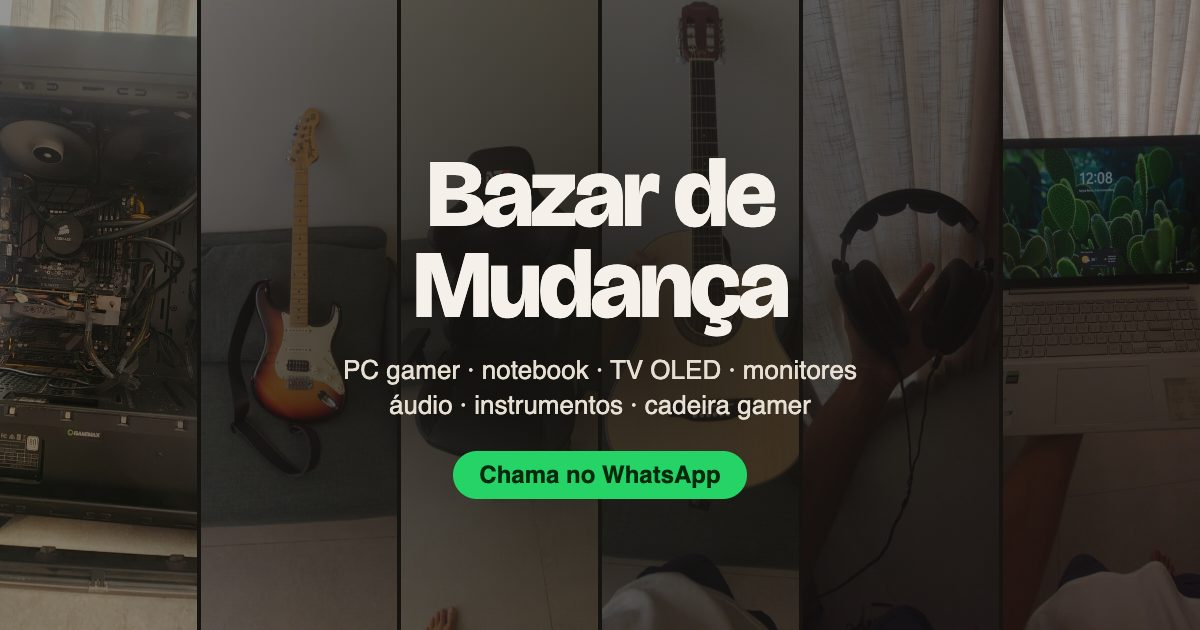
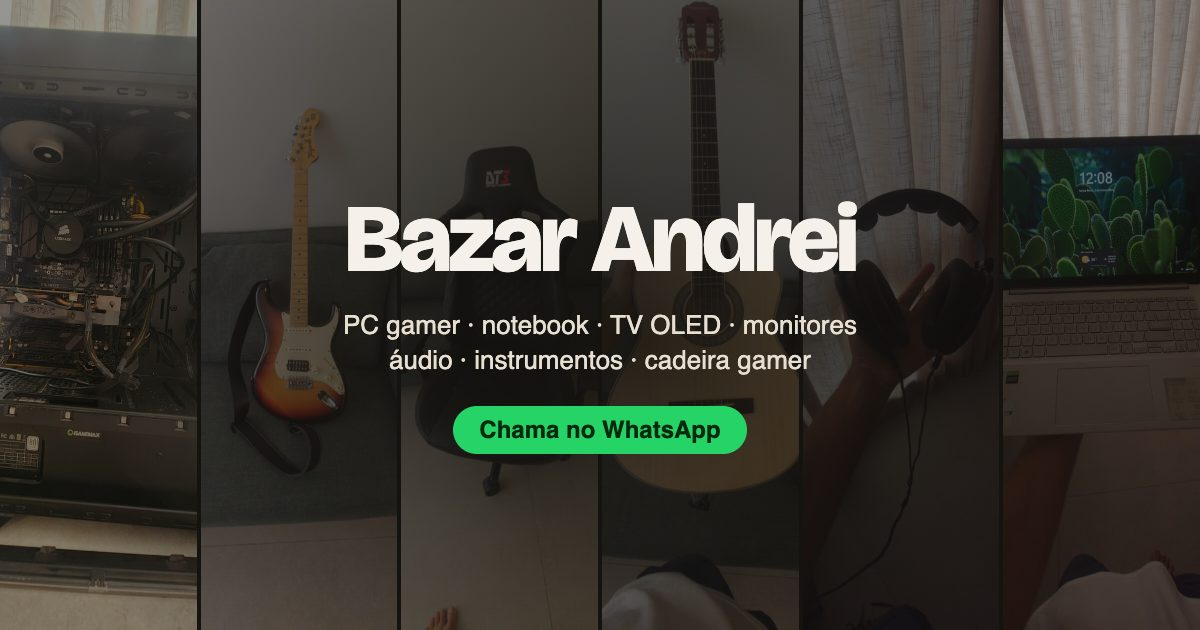
Rename to Bazar Andrei; drop the description line

Changed region(s): [[0.2775, 0.2413, 0.74, 0.6032], [0.3083, 0.6333, 0.6783, 0.8143]]

diff --git a/index.html b/index.html
@@ -3,17 +3,17 @@
 <head>
   <meta charset="utf-8">
   <meta name="viewport" content="width=device-width, initial-scale=1, viewport-fit=cover">
-  <title>Bazar de Mudança · PC gamer, notebook, TV OLED e mais</title>
-  <meta name="description" content="Estou vendendo esses itens porque vou me mudar: PC gamer, notebook, TV LG OLED, monitores, áudio, instrumentos e cadeira gamer. Fotos reais e preços: é só chamar no WhatsApp.">
+  <title>Bazar Andrei · PC gamer, notebook, TV OLED e mais</title>
+  <meta name="description" content="PC gamer, notebook, TV LG OLED, monitores, áudio, instrumentos e cadeira gamer. Fotos reais e preços: é só chamar no WhatsApp.">
   <meta name="theme-color" content="#f5f1ea" media="(prefers-color-scheme: light)">
   <meta name="theme-color" content="#141310" media="(prefers-color-scheme: dark)">
 
   <meta property="og:type" content="website">
   <meta property="og:locale" content="pt_BR">
-  <meta property="og:title" content="Bazar de Mudança">
+  <meta property="og:title" content="Bazar Andrei">
   <meta property="og:description" content="PC gamer, notebook, TV LG OLED, monitores, áudio, instrumentos e cadeira gamer. Fotos reais e preços: é só chamar no WhatsApp.">
   <meta property="og:url" content="https://andreixzc.github.io/bazar/">
-  <meta property="og:image" content="https://andreixzc.github.io/bazar/img/og.jpg?v=2">
+  <meta property="og:image" content="https://andreixzc.github.io/bazar/img/og.jpg?v=3">
   <meta property="og:image:width" content="1200">
   <meta property="og:image:height" content="630">
   <meta name="twitter:card" content="summary_large_image">
@@ -34,8 +34,7 @@
   </svg>
 
   <header class="hero wrap">
-    <h1>Bazar de Mudança</h1>
-    <p class="lead">Estou vendendo esses itens porque vou me mudar.</p>
+    <h1>Bazar Andrei</h1>
     <div class="hero-actions">
       <a class="btn btn-wa" id="cta" href="https://wa.me/5531988781887" target="_blank" rel="noopener"><svg aria-hidden="true"><use href="#i-wa"/></svg><span>Chamar no WhatsApp</span></a>
       <span class="stock" id="stock"></span>
@@ -50,7 +49,7 @@
   </main>
 
   <footer class="foot wrap">
-    <p><strong>Bazar de Mudança</strong> · fotos reais dos produtos · preços em reais</p>
+    <p><strong>Bazar Andrei</strong> · fotos reais dos produtos · preços em reais</p>
     <p>WhatsApp: <a id="foot-wa" href="https://wa.me/5531988781887" target="_blank" rel="noopener">(31) 98878-1887</a></p>
     <p id="updated"></p>
   </footer>

diff --git a/app.js b/app.js
@@ -1,4 +1,4 @@
-/* Bazar de Mudança: renders products.js into the page. No build step, no dependencies. */
+/* Bazar Andrei: renders products.js into the page. No build step, no dependencies. */
 (() => {
   "use strict";
 
@@ -85,7 +85,7 @@
     : forSale === products.length ? `${forSale} itens à venda`
     : `${forSale} de ${products.length} itens ainda à venda`;
 
-  const hello = wa("Olá! Vi o seu bazar de mudança e queria tirar uma dúvida.");
+  const hello = wa("Olá! Vi o seu bazar e queria tirar uma dúvida.");
   for (const id of ["cta", "fab", "foot-wa"]) document.getElementById(id).href = hello;
 
   const [y, m, d] = updated.split("-").map(Number);

diff --git a/products.js b/products.js
@@ -1,5 +1,5 @@
 /*
- * Bazar de Mudança: everything the site shows comes from this file.
+ * Bazar Andrei: everything the site shows comes from this file.
  *
  * To update the site, edit this file and push it, or edit it straight on GitHub
  * (works from the phone): https://github.com/Andreixzc/bazar/edit/main/products.js

diff --git a/styles.css b/styles.css
@@ -91,13 +91,6 @@ button {
   letter-spacing: -0.035em;
 }
 
-.lead {
-  max-width: 60ch;
-  margin: 18px 0 0;
-  color: var(--muted);
-  font-size: 1.1rem;
-}
-
 .hero-actions {
   display: flex;
   flex-wrap: wrap;

diff --git a/README.md b/README.md
@@ -1,6 +1,6 @@
-# Bazar de Mudança
+# Bazar Andrei
 
-Moving-sale catalogue: photos, prices, specs and a WhatsApp button per item.
+Sale catalogue: photos, prices, specs and a WhatsApp button per item.
 Live at **https://andreixzc.github.io/bazar/**
 
 ## Updating the site
